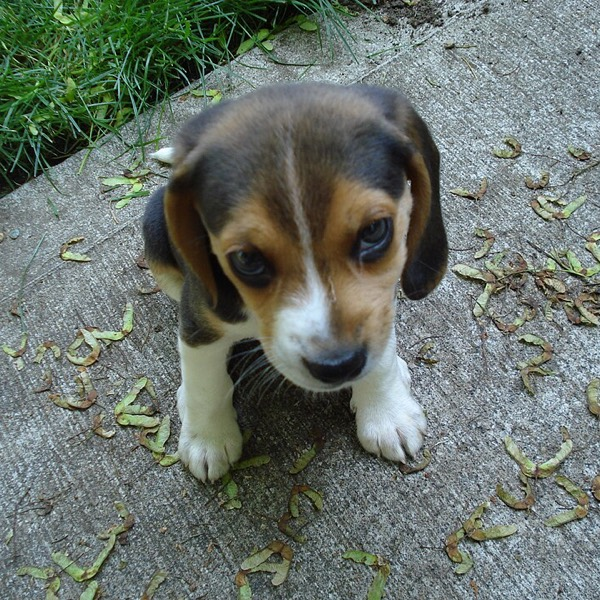
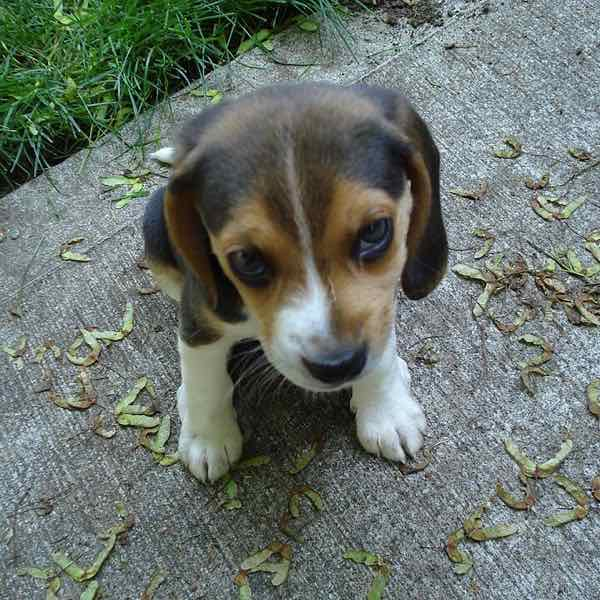
perf(web): fuentes propias, caché de estáticos, preconexión a las teselas y fotos de demo más ligeras
- Nunito Sans y Unbounded desde nuestro dominio (@fontsource): fuera el CSS de Google que bloqueaba
  el pintado, y la CSP ya no tiene que permitir fonts.googleapis.com ni fonts.gstatic.com.
- /assets con caché de un año (nombres con hash) y /demo de una semana.
- preconnect a tile.openstreetmap.org: la tesela del mapa es el elemento más grande de la portada.
- Fotos de demo de 1,4 MB a 640 kB. robots.txt real (antes devolvía el HTML de la app).

Changed region(s): [[0.0, 0.0, 1.0, 1.0], [0.03, 0.87, 0.06, 0.9], [0.0, 0.39, 0.03, 0.42]]

diff --git a/apps/web/index.html b/apps/web/index.html
@@ -11,12 +11,8 @@
     <meta name="apple-mobile-web-app-title" content="Furrly" />
     <meta name="description" content="Furrly: mascotas perdidas y encontradas cerca de ti." />
     <title>Furrly</title>
-    <link rel="preconnect" href="https://fonts.googleapis.com" />
-    <link rel="preconnect" href="https://fonts.gstatic.com" crossorigin />
-    <link
-      rel="stylesheet"
-      href="https://fonts.googleapis.com/css2?family=Nunito+Sans:opsz,wght@6..12,400;6..12,600;6..12,700;6..12,800&family=Unbounded:wght@600;800&display=swap"
-    />
+    <!-- Las teselas del mapa son lo más grande de la portada: se abre la conexión antes de que Leaflet las pida. -->
+    <link rel="preconnect" href="https://tile.openstreetmap.org" />
   </head>
   <body>
     <div id="root"></div>

diff --git a/apps/web/e2e/fixtures.ts b/apps/web/e2e/fixtures.ts
@@ -50,11 +50,11 @@ export async function logIn(page: Page, username = 'nabil') {
   await page.addInitScript((value) => localStorage.setItem('sb-supabase-auth-token', value), JSON.stringify(session))
 }
 
-/** Sin red externa: ni teselas del mapa, ni fuentes, ni Supabase. */
+/** Sin red externa: ni teselas del mapa ni Supabase. */
 export const test = base.extend({
   // El segundo parámetro de una fixture se suele llamar "use"; aquí "run" para no confundir al linter de React.
   page: async ({ page }, run) => {
-    await page.route(/tile\.openstreetmap\.org|fonts\.(googleapis|gstatic)\.com|supabase\.test/, (route) => route.abort())
+    await page.route(/tile\.openstreetmap\.org|supabase\.test/, (route) => route.abort())
     await run(page)
   },
 })

diff --git a/apps/web/src/main.tsx b/apps/web/src/main.tsx
@@ -4,6 +4,9 @@ import { App } from './App'
 import { AuthProvider } from './auth/AuthProvider'
 import { InboxProvider } from './inbox/InboxProvider'
 import { registerServiceWorker } from './lib/push'
+// Fuentes servidas desde nuestro dominio (antes Google Fonts: dos dominios más y un CSS que bloqueaba el pintado).
+import '@fontsource-variable/nunito-sans/opsz.css'
+import '@fontsource-variable/unbounded/wght.css'
 import './index.css'
 
 registerServiceWorker()

diff --git a/apps/web/src/index.css b/apps/web/src/index.css
@@ -5,8 +5,8 @@
  * --color-lost → bg-lost, text-lost, border-lost...; --font-display → font-display.
  */
 @theme {
-  --font-sans: "Nunito Sans", ui-sans-serif, system-ui, sans-serif;
-  --font-display: "Unbounded", ui-sans-serif, system-ui, sans-serif;
+  --font-sans: "Nunito Sans Variable", ui-sans-serif, system-ui, sans-serif;
+  --font-display: "Unbounded Variable", ui-sans-serif, system-ui, sans-serif;
 
   --color-ink: #1b2430;
   --color-bg: #fbfaf7;
